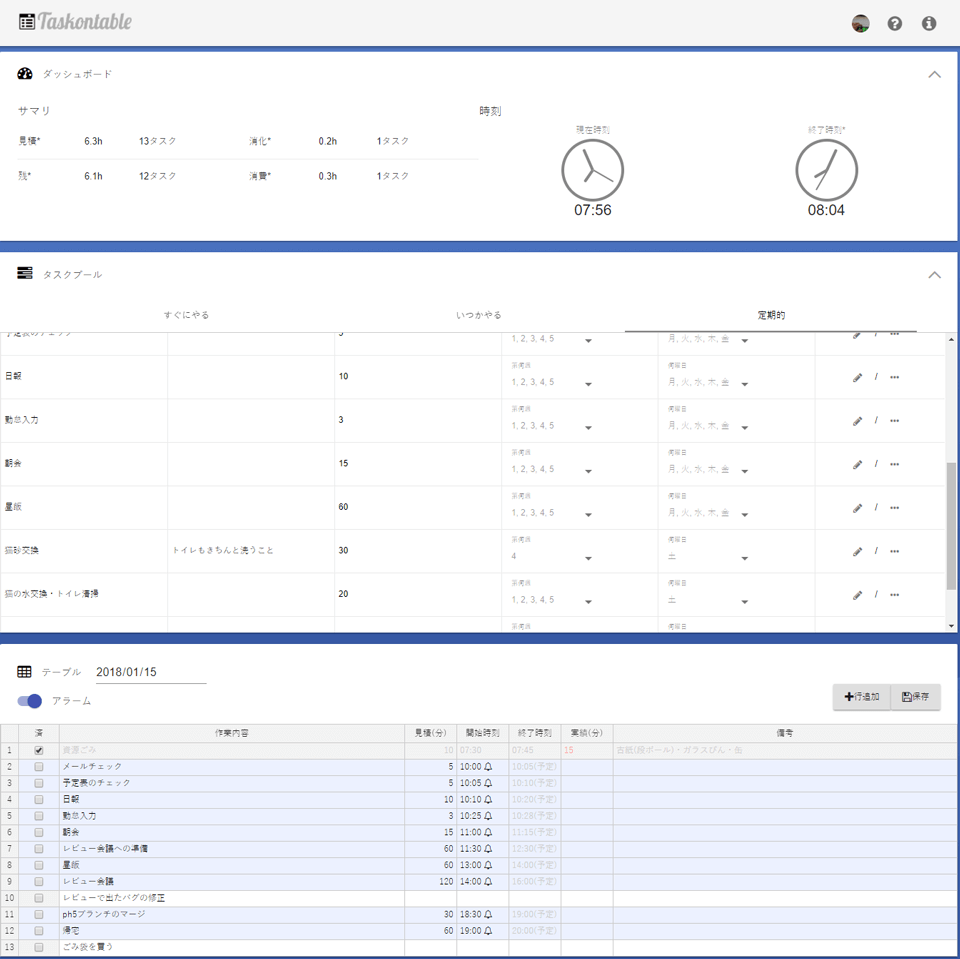
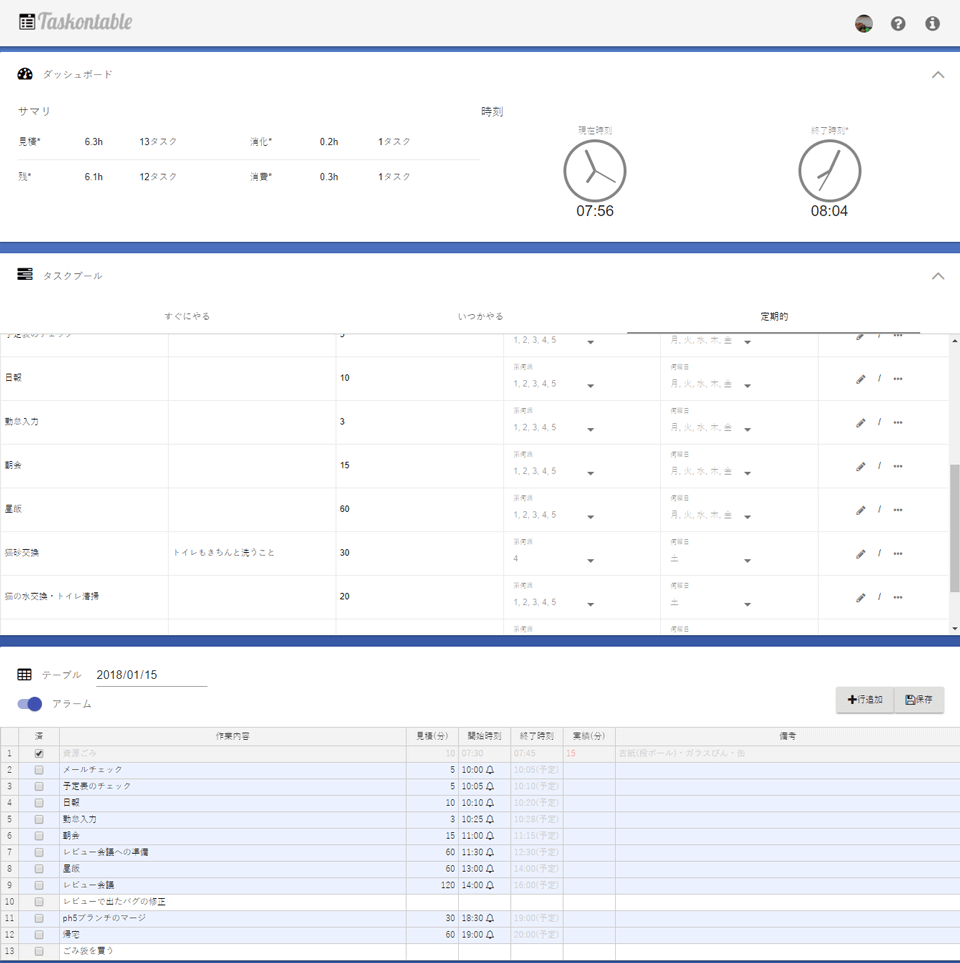
minor fix

diff --git a/src/components/GlobalHeader.js b/src/components/GlobalHeader.js
@@ -113,7 +113,7 @@ class GlobalHeader extends Component {
           </Hidden>
           <Grid item xs={12} sm={10}>
             <Toolbar>
-              <Link className={classes.title} to="/"><img src={title} alt="taskontable" height="25" /></Link>
+              <Link className={classes.title} to="/"><img src={title} alt="taskontable" height="22" /></Link>
               {(() => {
                 if (!this.state.login) {
                   return (<div style={{ display: 'inline-flex' }}>

diff --git a/public/index.html b/public/index.html
@@ -32,9 +32,7 @@
     background-attachment: fixed;
   }
 </style>
-<noscript>
-  You need to enable JavaScript to run this app.
-</noscript>
+<body>
 <div id="root"></div>
 <!--
       This HTML file is a template.
@@ -47,5 +45,7 @@
       To create a production bundle, use `npm run build` or `yarn build`.
     -->
 </body>
-
+<noscript>
+  You need to enable JavaScript to run this app.
+</noscript>
 </html>
